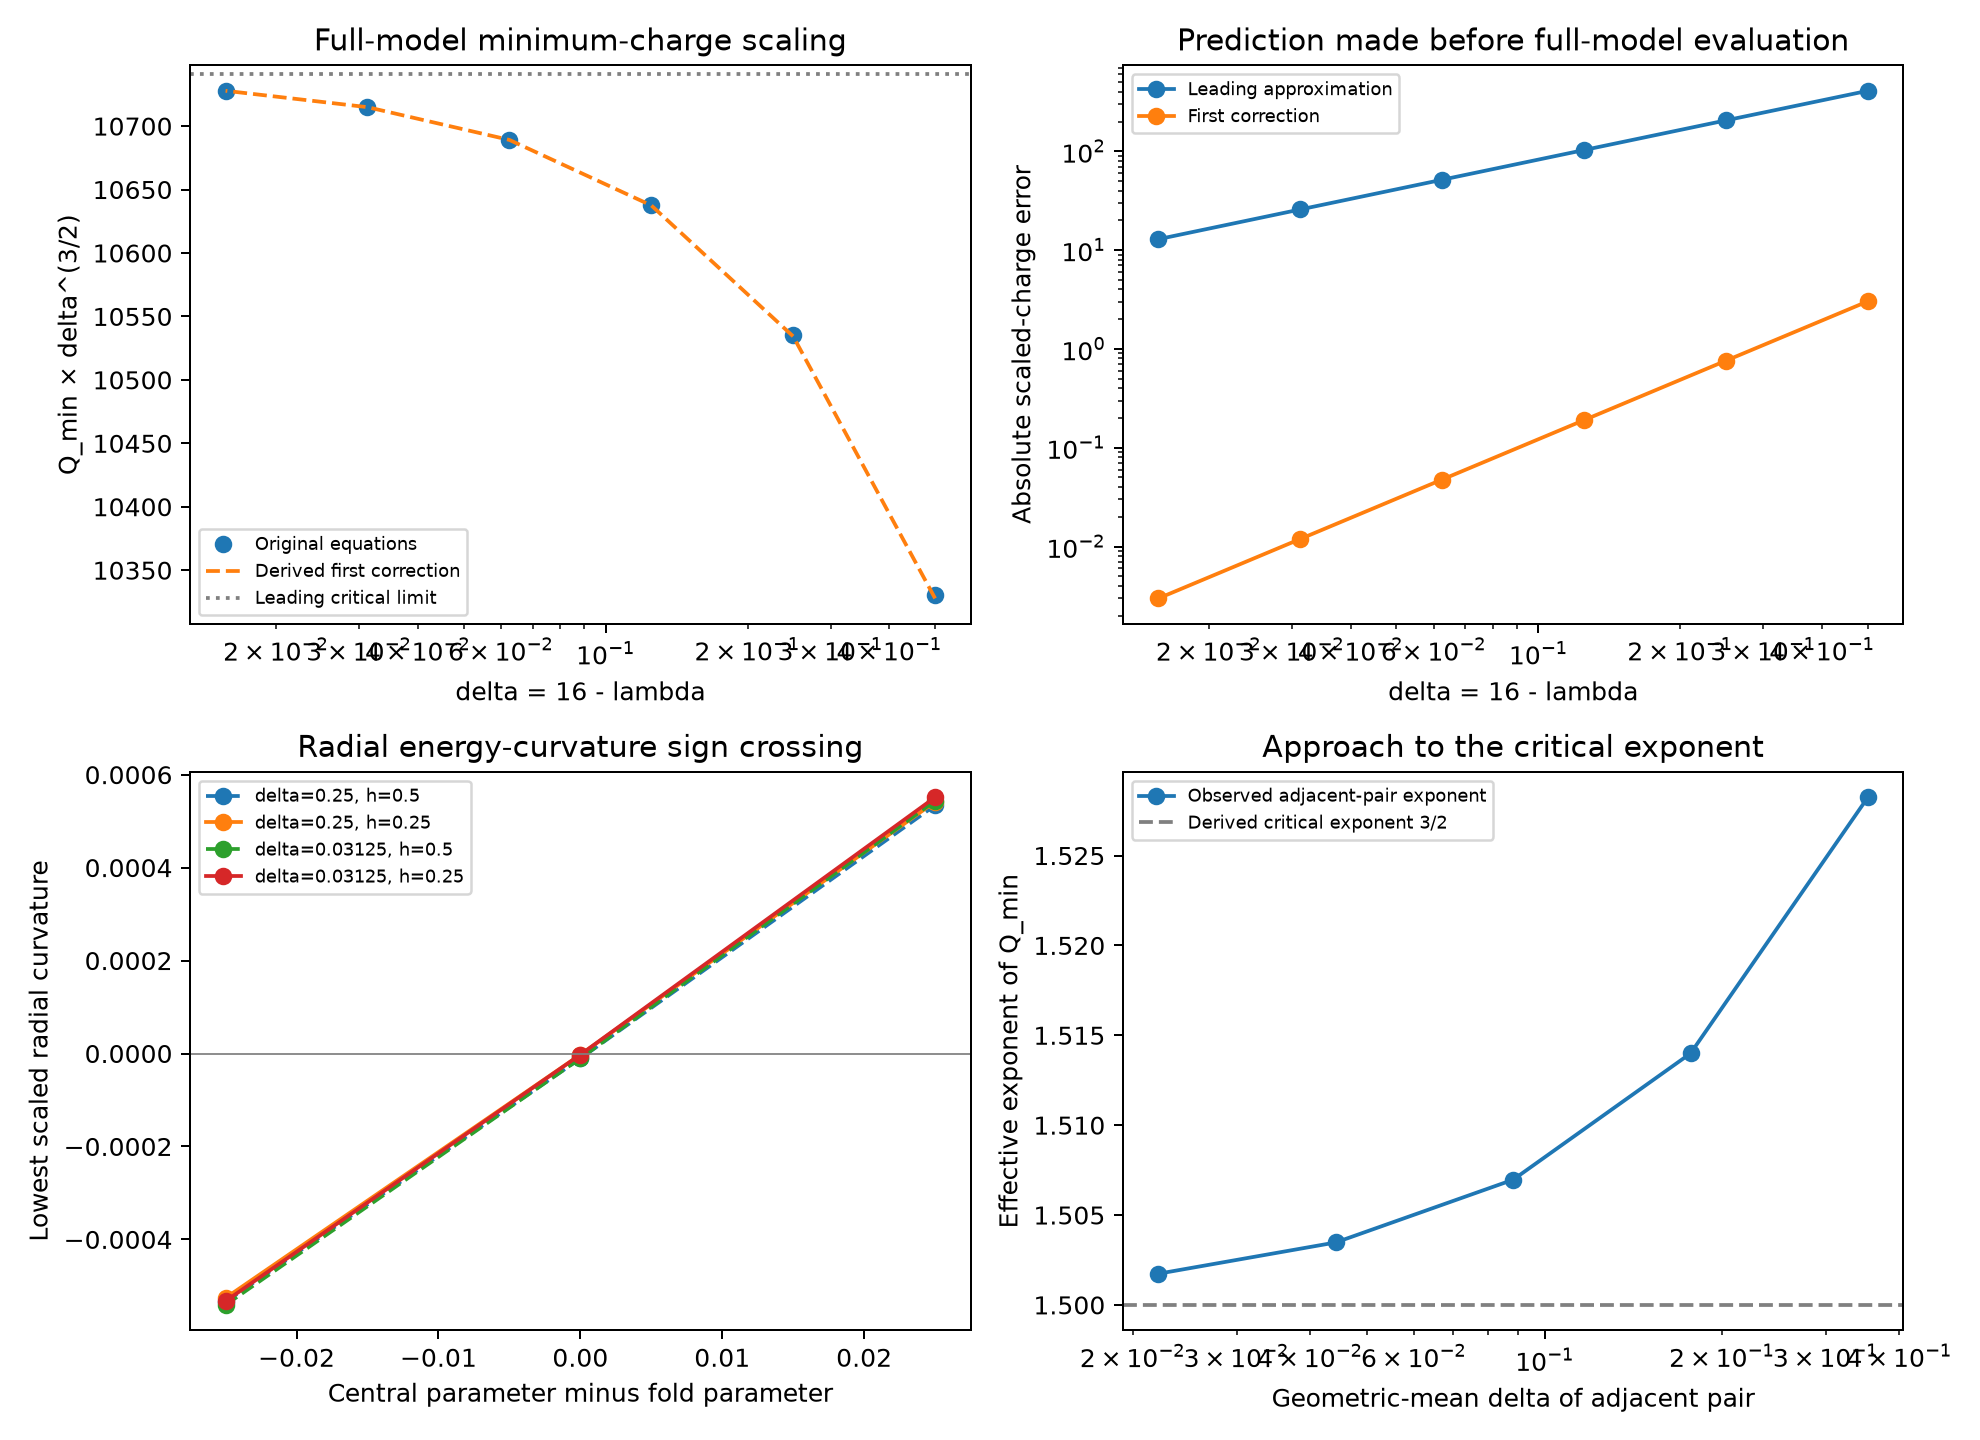
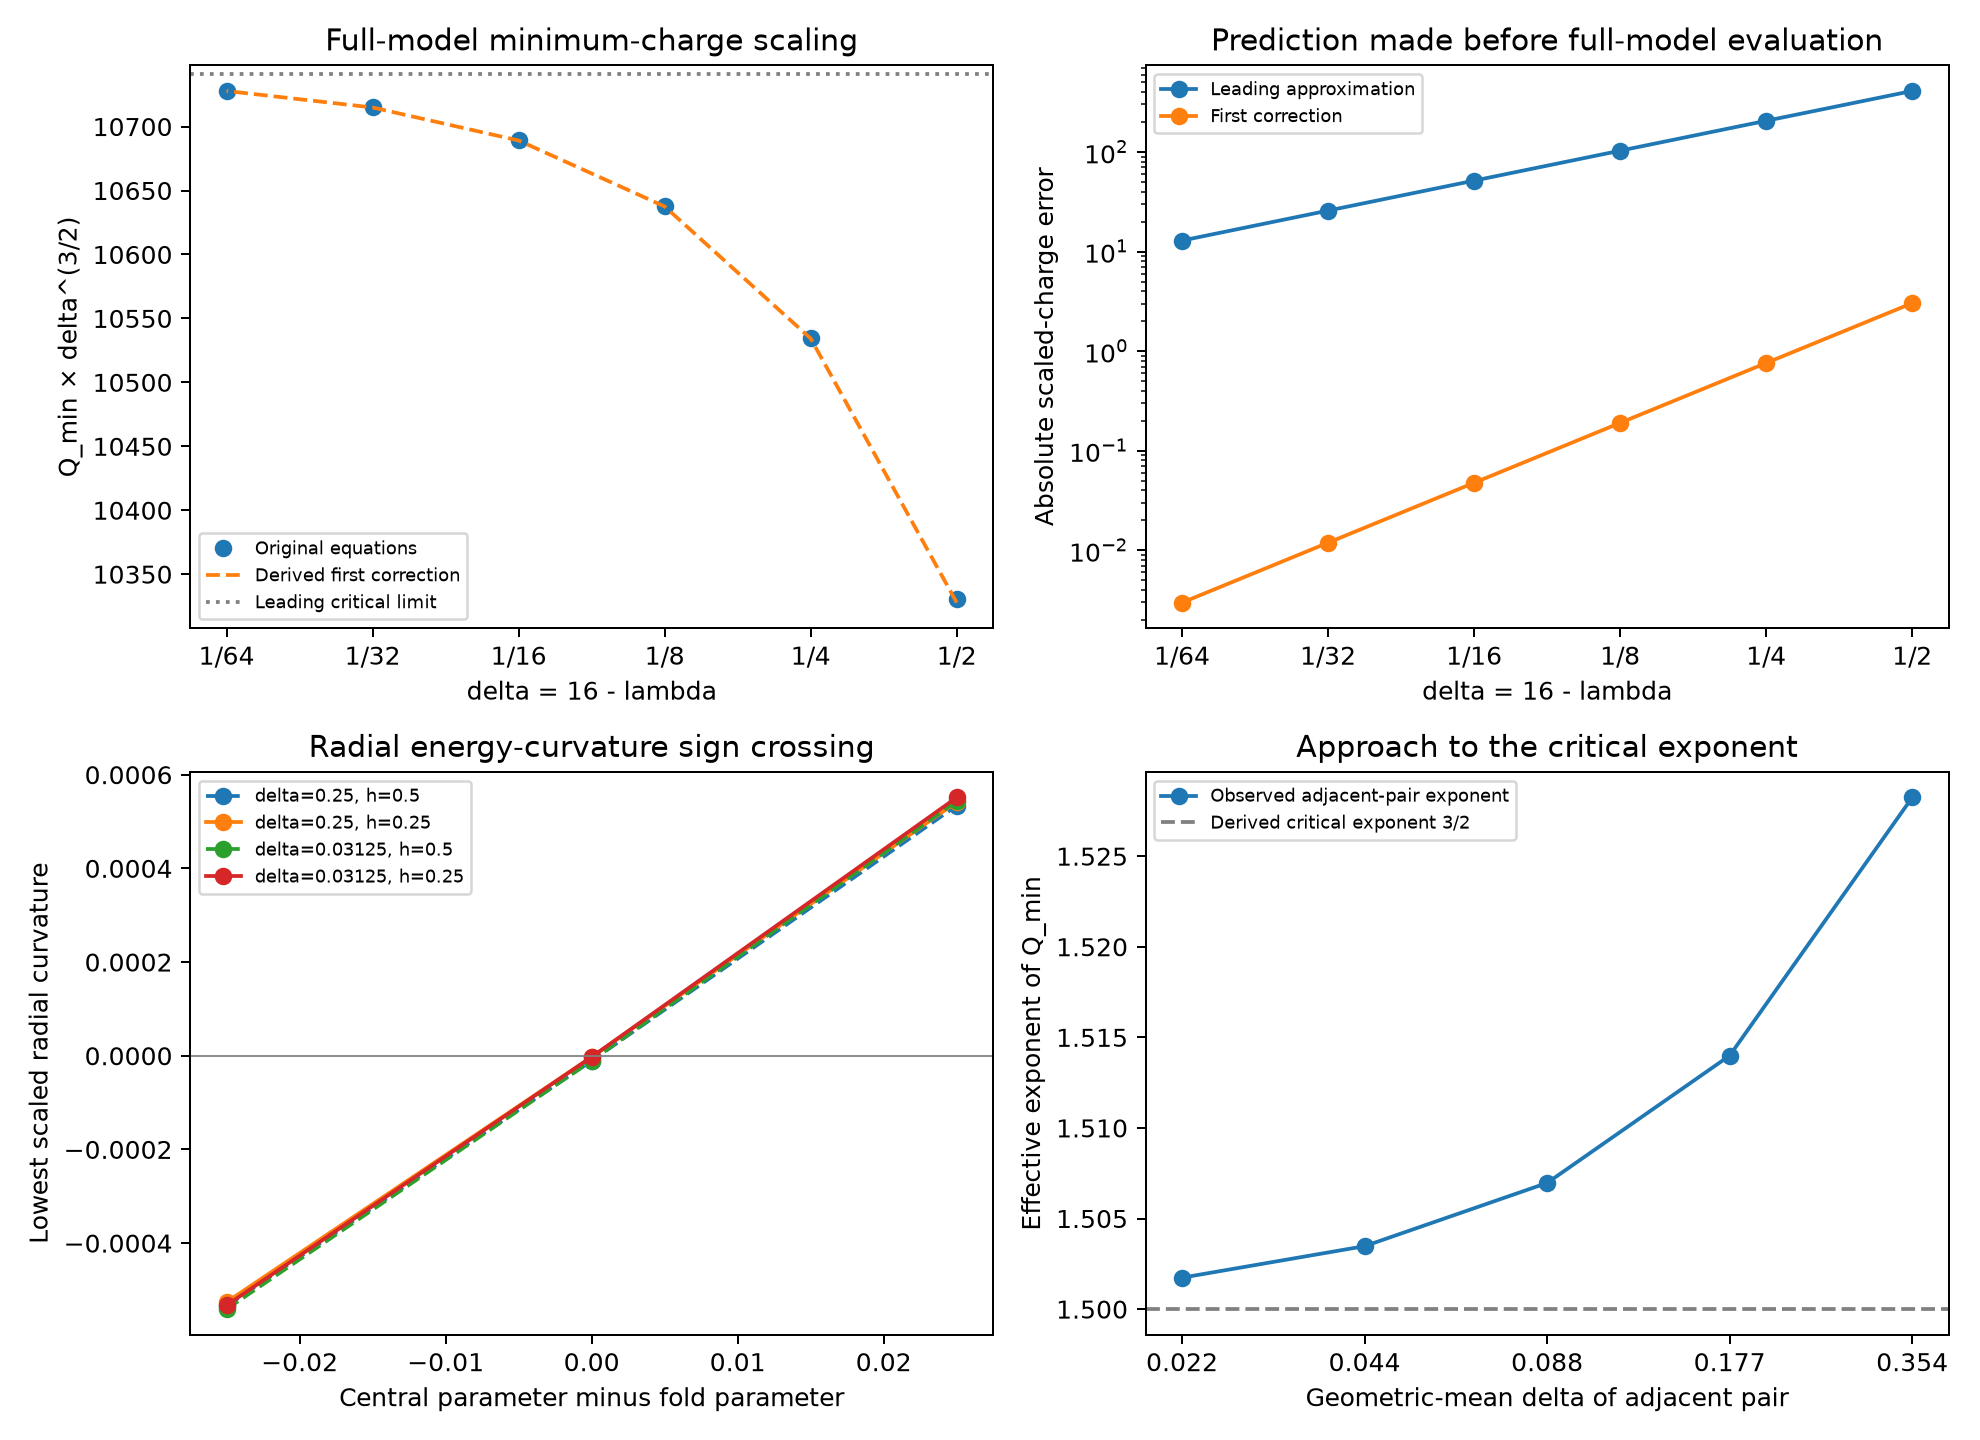
Test full-model charge-fold scaling and radial zero-mode crossing

diff --git a/research/2026-10-26/full-fold/summarize.py b/research/2026-10-26/full-fold/summarize.py
@@ -4,6 +4,7 @@ import numpy as np
 import matplotlib
 matplotlib.use('Agg')
 import matplotlib.pyplot as plt
+from matplotlib.ticker import NullLocator
 ROOT=Path(__file__).resolve().parent
 data=json.loads((ROOT/'results.json').read_text())
 radial=json.loads((ROOT/'radial_results.json').read_text())
@@ -64,6 +65,11 @@ mid=np.sqrt(d[:-1]*d[1:])
 axes[1,1].semilogx(mid,data['effective_exponents'],'o-',label='Observed adjacent-pair exponent')
 axes[1,1].axhline(1.5,color='gray',ls='--',label='Derived critical exponent 3/2')
 axes[1,1].set(xlabel='Geometric-mean delta of adjacent pair',ylabel='Effective exponent of Q_min',title='Approach to the critical exponent')
+for ax in [axes[0,0],axes[0,1]]:
+    ax.set_xticks([1/64,1/32,1/16,1/8,1/4,1/2],labels=['1/64','1/32','1/16','1/8','1/4','1/2'])
+    ax.xaxis.set_minor_locator(NullLocator())
+axes[1,1].set_xticks(mid,labels=[f'{x:.3f}' for x in mid])
+axes[1,1].xaxis.set_minor_locator(NullLocator())
 for ax in axes.flat:ax.legend(fontsize=7)
 fig.tight_layout();fig.savefig(ROOT/'full_fold_results.png',dpi=180);plt.close(fig)
 
